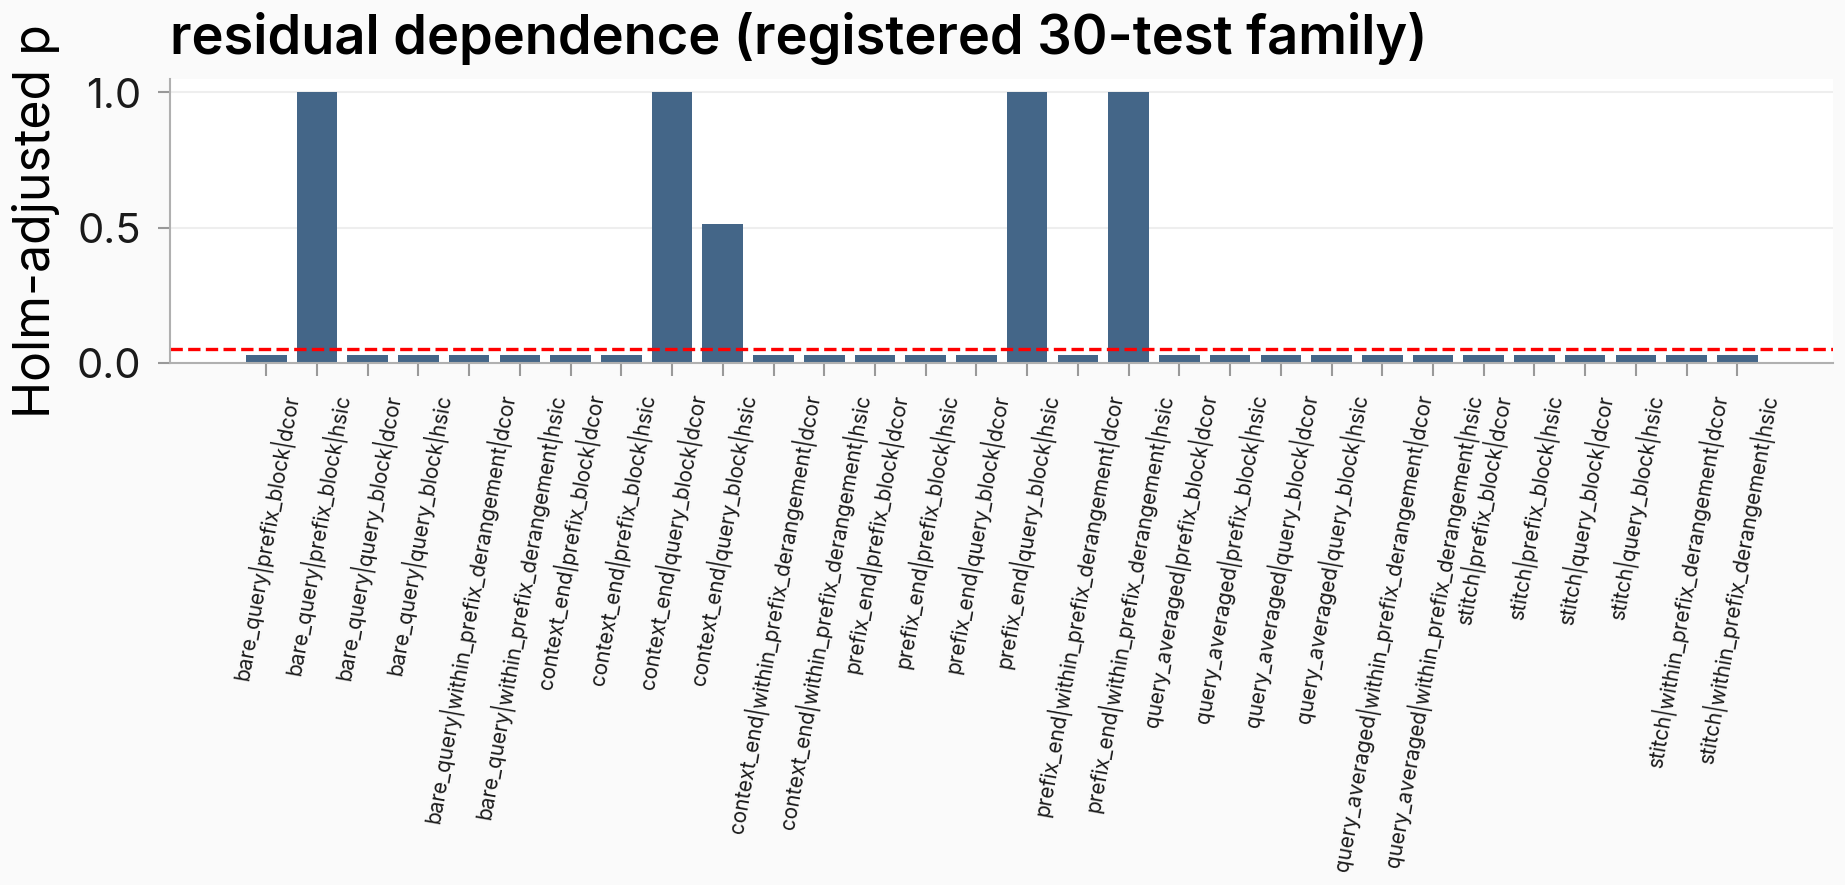
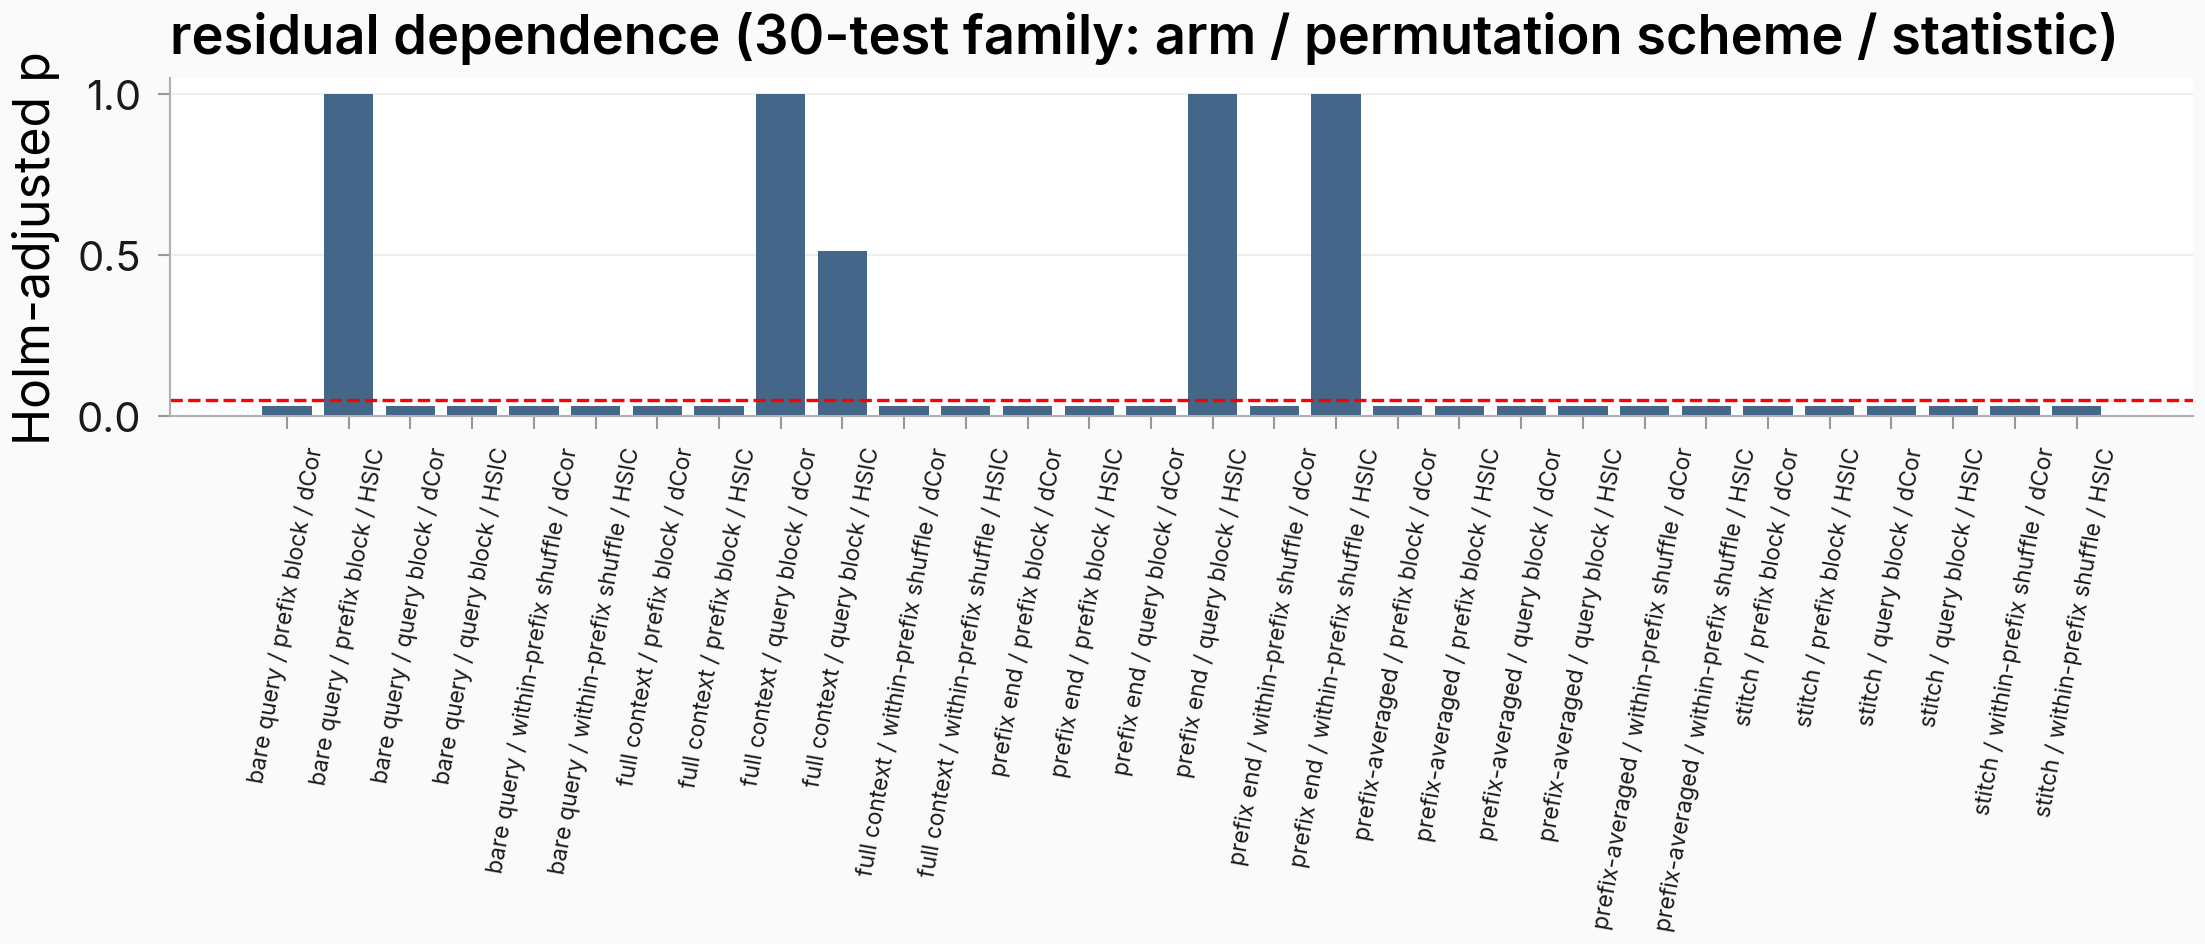
analyzer: #1775 plain-English tick labels on the detection Holm figure

Changed region(s): [[0.0, 0.0305, 1.0, 0.9763], [0.0618, 0.0, 0.9577, 0.0915]]

diff --git a/scripts/issue1775_figures.py b/scripts/issue1775_figures.py
@@ -277,10 +277,10 @@ def projection_cosines(projections: dict | None, out: Path) -> None:
 
 
 def exploratory(linear, nonlinear, detection, bilinear, fold_check, out: Path, refit=None) -> None:
+    from explore_persona_space.analysis.paper_plots import savefig_paper
+
     # per-fold R2 scatter — the low-level per-unit view behind the ladder bars
     if linear:
-        from explore_persona_space.analysis.paper_plots import savefig_paper
-
         units = [
             u
             for u in _primary_units(linear.get("units", []))
@@ -360,14 +360,29 @@ def exploratory(linear, nonlinear, detection, bilinear, fold_check, out: Path, r
     if detection:
         fam = detection.get("holm_adjusted_p", {})
         if fam:
-            fig, ax = plt.subplots(figsize=(6.4, 3.2))
+            plain = {
+                "prefix_end": "prefix end",
+                "query_averaged": "prefix-averaged",
+                "bare_query": "bare query",
+                "context_end": "full context",
+                "stitch": "stitch",
+                "prefix_block": "prefix block",
+                "query_block": "query block",
+                "within_prefix_derangement": "within-prefix shuffle",
+                "hsic": "HSIC",
+                "dcor": "dCor",
+            }
+            fig, ax = plt.subplots(figsize=(7.6, 3.4))
             names = sorted(fam)
+            labels = [" / ".join(plain.get(t, t) for t in n.split("|")) for n in names]
             ax.bar(range(len(names)), [fam[n] for n in names], color="#446688")
             ax.axhline(0.05, color="red", ls="--", lw=0.8)
             ax.set_xticks(range(len(names)))
-            ax.set_xticklabels(names, rotation=80, fontsize=5)
+            ax.set_xticklabels(labels, rotation=80, fontsize=5.5)
             ax.set_ylabel("Holm-adjusted p")
-            ax.set_title("residual dependence (registered 30-test family)")
+            ax.set_title(
+                "residual dependence (30-test family: arm / permutation scheme / statistic)"
+            )
             fig.tight_layout()
             savefig_paper(fig, "expl_detection_holm", dir=out)
             plt.close(fig)
